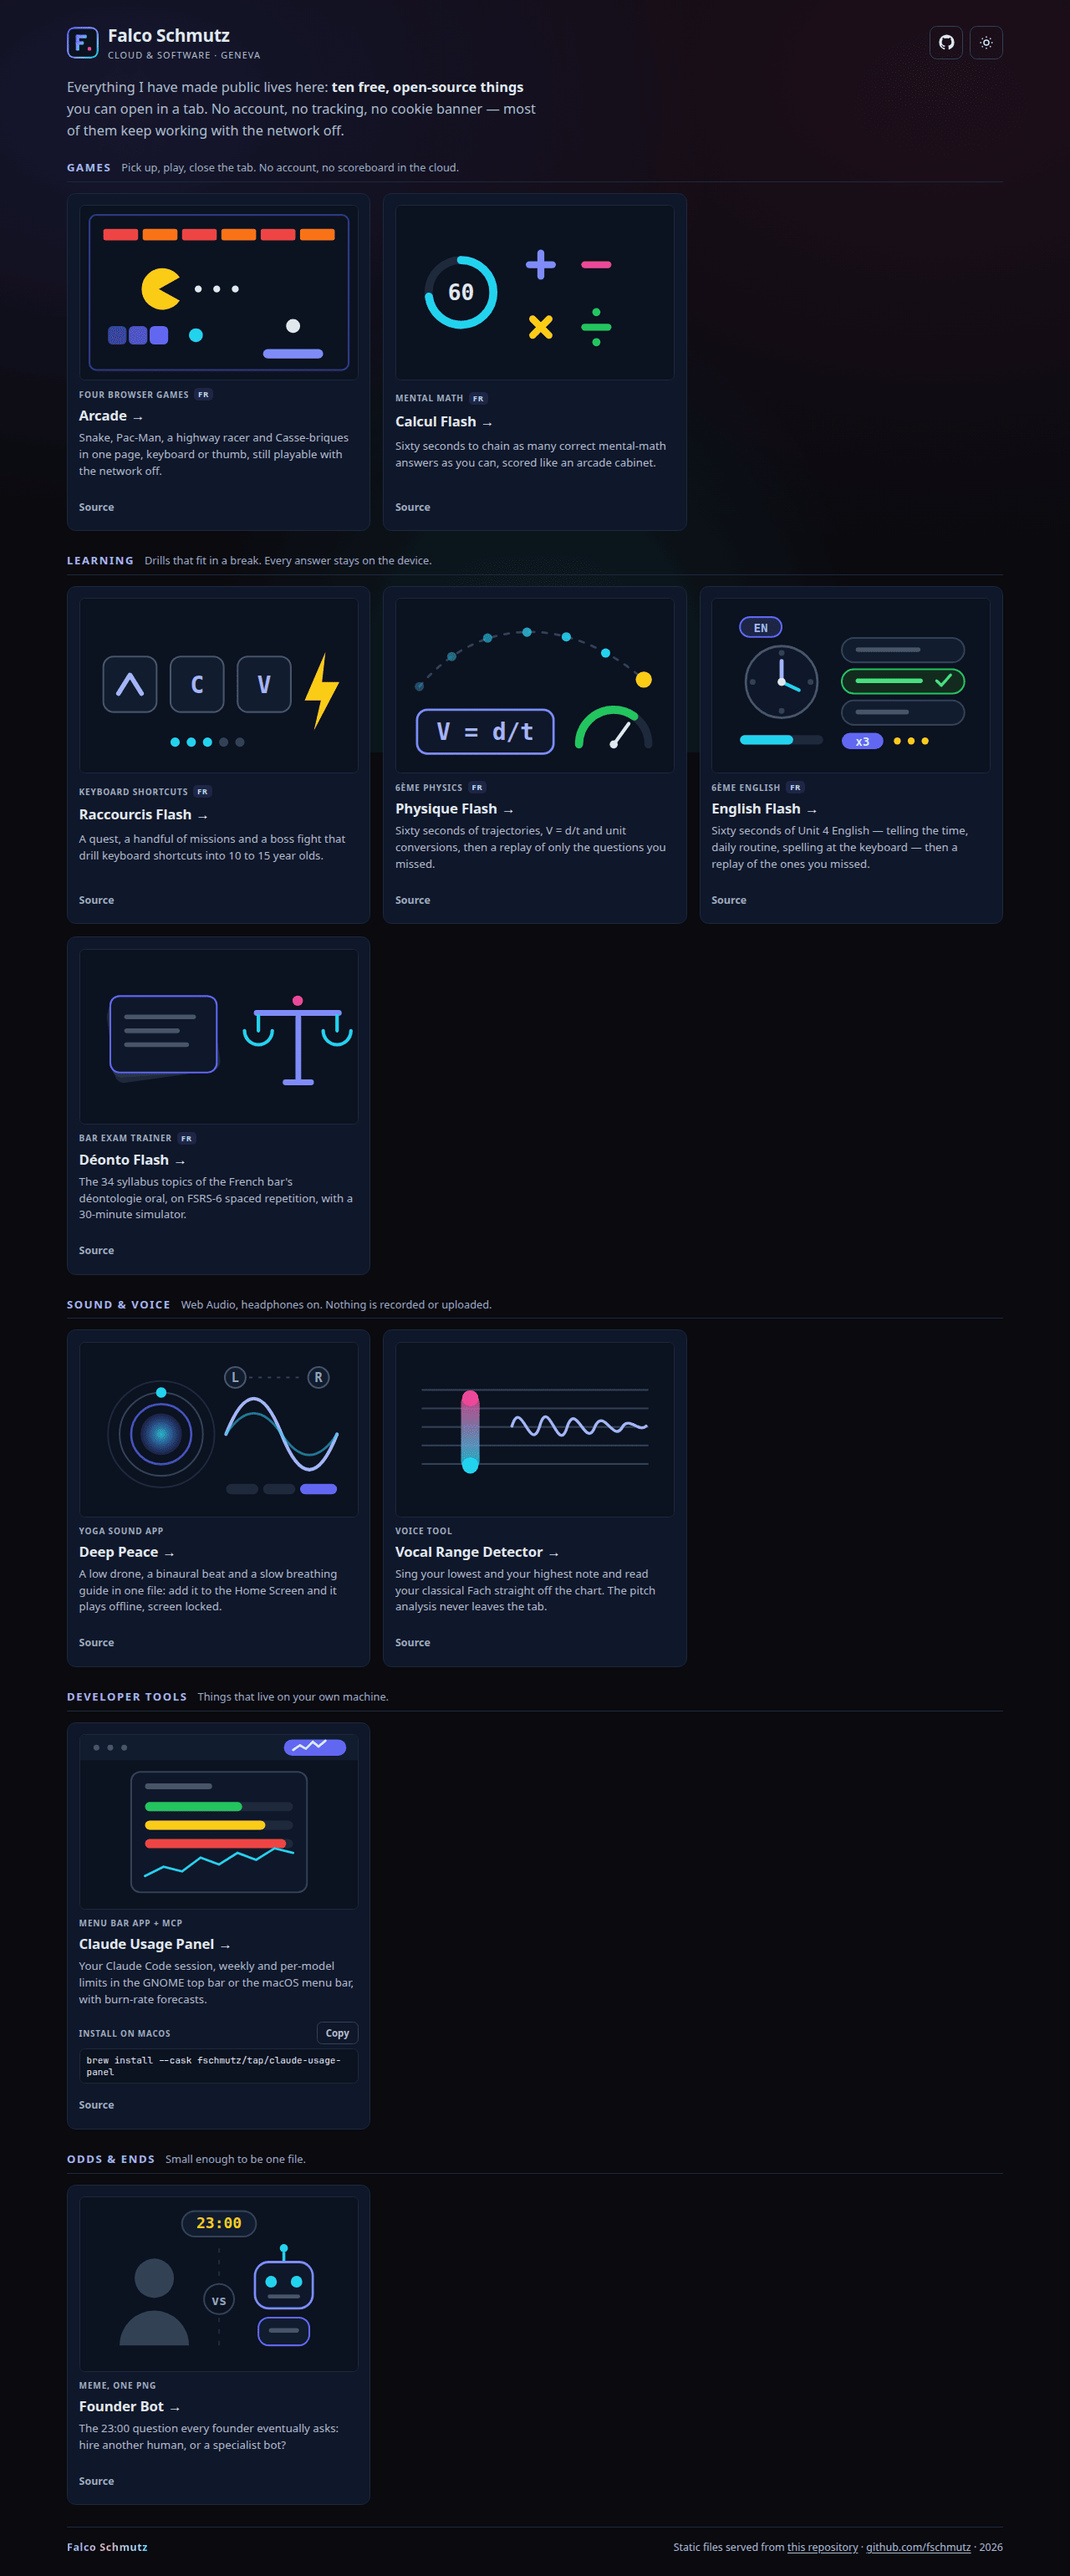
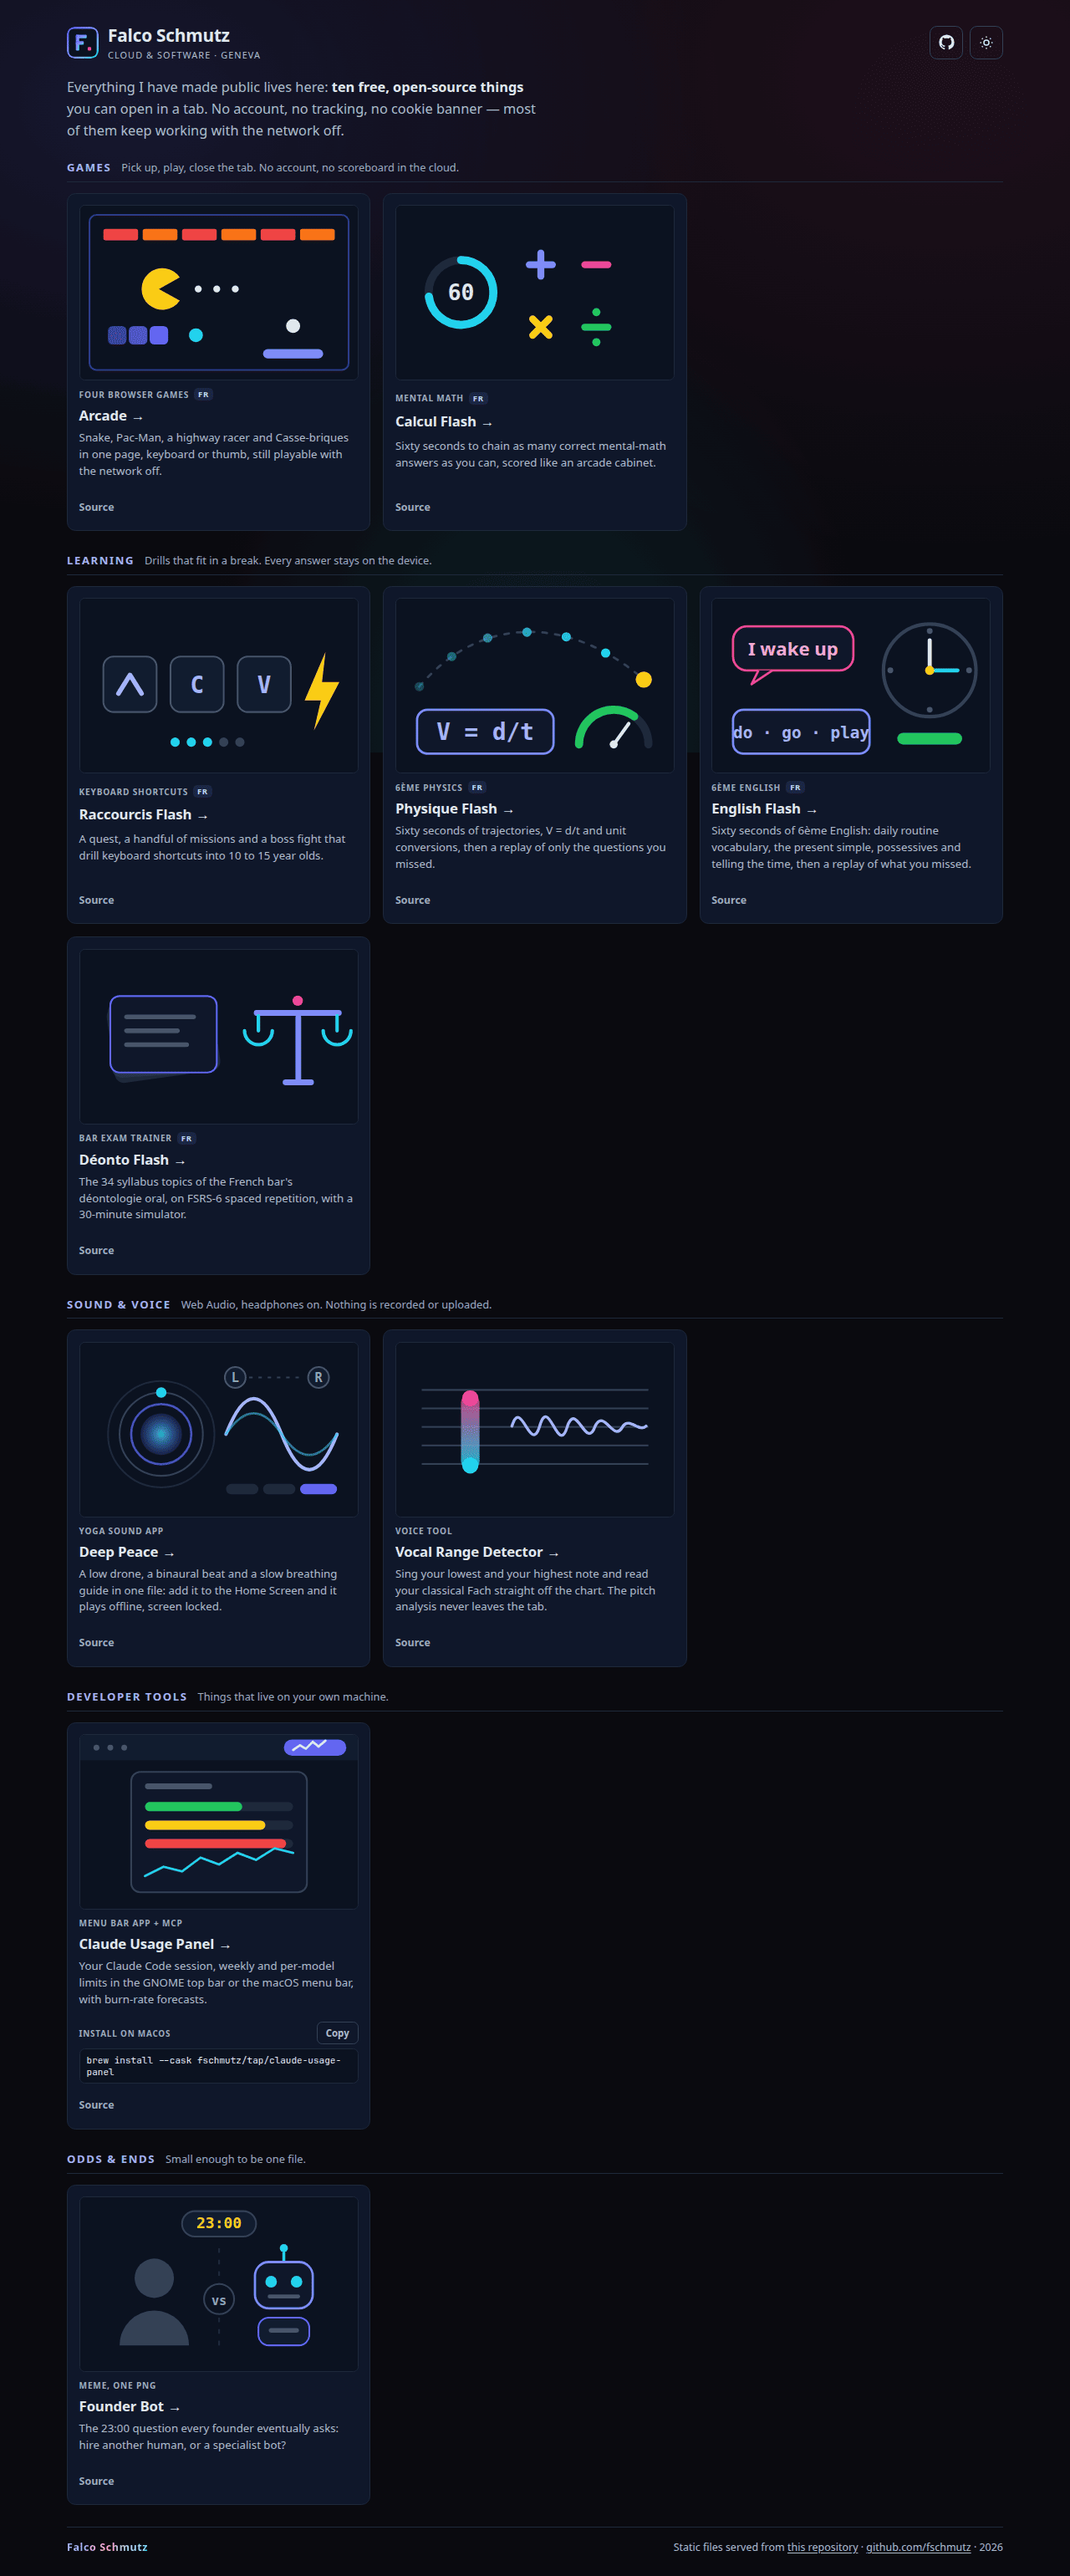
Keep Falco's English Flash artwork and wording from main
main gained English Flash while this branch was open. The card itself was
already generated from projects.json here, so what carries over is main's
version of the project: its summary in projects.json, its thumbnail, and the
regenerated index.html and screenshots that follow from them.

Changed region(s): [[0.6562, 0.2181, 0.9062, 0.3427]]

diff --git a/index.html b/index.html
@@ -305,42 +305,26 @@
           <li class="card">
             <svg class="thumb" viewBox="0 0 240 150" aria-hidden="true" focusable="false">
               <rect width="240" height="150" fill="#0b1220"/>
-              <rect x="24" y="16" width="36" height="17" rx="8.5" fill="#1e2545" stroke="#6366f1" stroke-width="1.5"/>
-              <text x="42" y="29" text-anchor="middle" font-family="ui-monospace, monospace" font-size="10" font-weight="700" fill="#a5b4fc">EN</text>
-              <circle cx="60" cy="72" r="31" fill="#0f172a" stroke="#475569" stroke-width="2"/>
-              <g fill="#334155">
-              <circle cx="60" cy="47" r="2.5"/>
-              <circle cx="85" cy="72" r="2.5"/>
-              <circle cx="60" cy="97" r="2.5"/>
-              <circle cx="35" cy="72" r="2.5"/>
-              </g>
-              <path d="M60 72 L60 54" stroke="#a5b4fc" stroke-width="3.5" stroke-linecap="round"/>
-              <path d="M60 72 L75 79" stroke="#22d3ee" stroke-width="3" stroke-linecap="round"/>
-              <circle cx="60" cy="72" r="3.5" fill="#e2e8f0"/>
-              <g stroke-width="1.5">
-              <rect x="112" y="34" width="106" height="21" rx="10.5" fill="#111c2f" stroke="#334155"/>
-              <rect x="112" y="61" width="106" height="21" rx="10.5" fill="#132b1e" stroke="#22c55e"/>
-              <rect x="112" y="88" width="106" height="21" rx="10.5" fill="#111c2f" stroke="#334155"/>
-              </g>
+              <circle cx="188" cy="62" r="40" fill="none" stroke="#334155" stroke-width="3"/>
               <g fill="#475569">
-              <rect x="124" y="42" width="56" height="4" rx="2"/>
-              <rect x="124" y="96" width="46" height="4" rx="2"/>
+              <circle cx="188" cy="28" r="2.5"/>
+              <circle cx="222" cy="62" r="2.5"/>
+              <circle cx="188" cy="96" r="2.5"/>
+              <circle cx="154" cy="62" r="2.5"/>
               </g>
-              <rect x="124" y="69" width="58" height="4" rx="2" fill="#4ade80"/>
-              <path d="M194 71 l4 4 8 -9" fill="none" stroke="#4ade80" stroke-width="2.5" stroke-linecap="round" stroke-linejoin="round"/>
-              <rect x="24" y="118" width="72" height="8" rx="4" fill="#1e293b"/>
-              <rect x="24" y="118" width="46" height="8" rx="4" fill="#22d3ee"/>
-              <rect x="112" y="116" width="36" height="14" rx="7" fill="#6366f1"/>
-              <text x="130" y="127" text-anchor="middle" font-family="ui-monospace, monospace" font-size="10" font-weight="700" fill="#e0e7ff">x3</text>
-              <g fill="#facc15">
-              <circle cx="160" cy="123" r="3"/>
-              <circle cx="172" cy="123" r="3"/>
-              <circle cx="184" cy="123" r="3"/>
-              </g>
+              <path d="M188 62 V36" stroke="#e2e8f0" stroke-width="3.5" stroke-linecap="round"/>
+              <path d="M188 62 H212" stroke="#22d3ee" stroke-width="3.5" stroke-linecap="round"/>
+              <circle cx="188" cy="62" r="4" fill="#facc15"/>
+              <rect x="18" y="24" width="104" height="38" rx="12" fill="#0f172a" stroke="#ec4899" stroke-width="2"/>
+              <path d="M40 62 L34 74 L52 62" fill="#0f172a" stroke="#ec4899" stroke-width="2" stroke-linejoin="round"/>
+              <text x="70" y="49" text-anchor="middle" font-family="ui-sans-serif, system-ui, sans-serif" font-size="16" font-weight="700" fill="#f9a8d4">I wake up</text>
+              <rect x="18" y="96" width="118" height="38" rx="9" fill="#0f172a" stroke="#818cf8" stroke-width="2"/>
+              <text x="77" y="121" text-anchor="middle" font-family="ui-monospace, monospace" font-size="14" font-weight="700" fill="#a5b4fc">do · go · play</text>
+              <rect x="160" y="116" width="56" height="10" rx="5" fill="#22c55e"/>
             </svg>
             <p class="kind">6ème English<span class="lang">FR<span class="sr-only"> — in French</span></span></p>
             <h3 class="name"><a class="go" href="https://fschmutz.github.io/english-flash/">English Flash<span class="sr-only"> — play it in the browser</span><span class="arrow" aria-hidden="true">→</span></a></h3>
-            <p class="summary">Sixty seconds of Unit 4 English — telling the time, daily routine, spelling at the keyboard — then a replay of the ones you missed.</p>
+            <p class="summary">Sixty seconds of 6ème English: daily routine vocabulary, the present simple, possessives and telling the time, then a replay of what you missed.</p>
             <p class="links">
               <a class="src" href="https://github.com/fschmutz/english-flash">Source<span class="sr-only"> code for English Flash on GitHub</span></a>
             </p>
